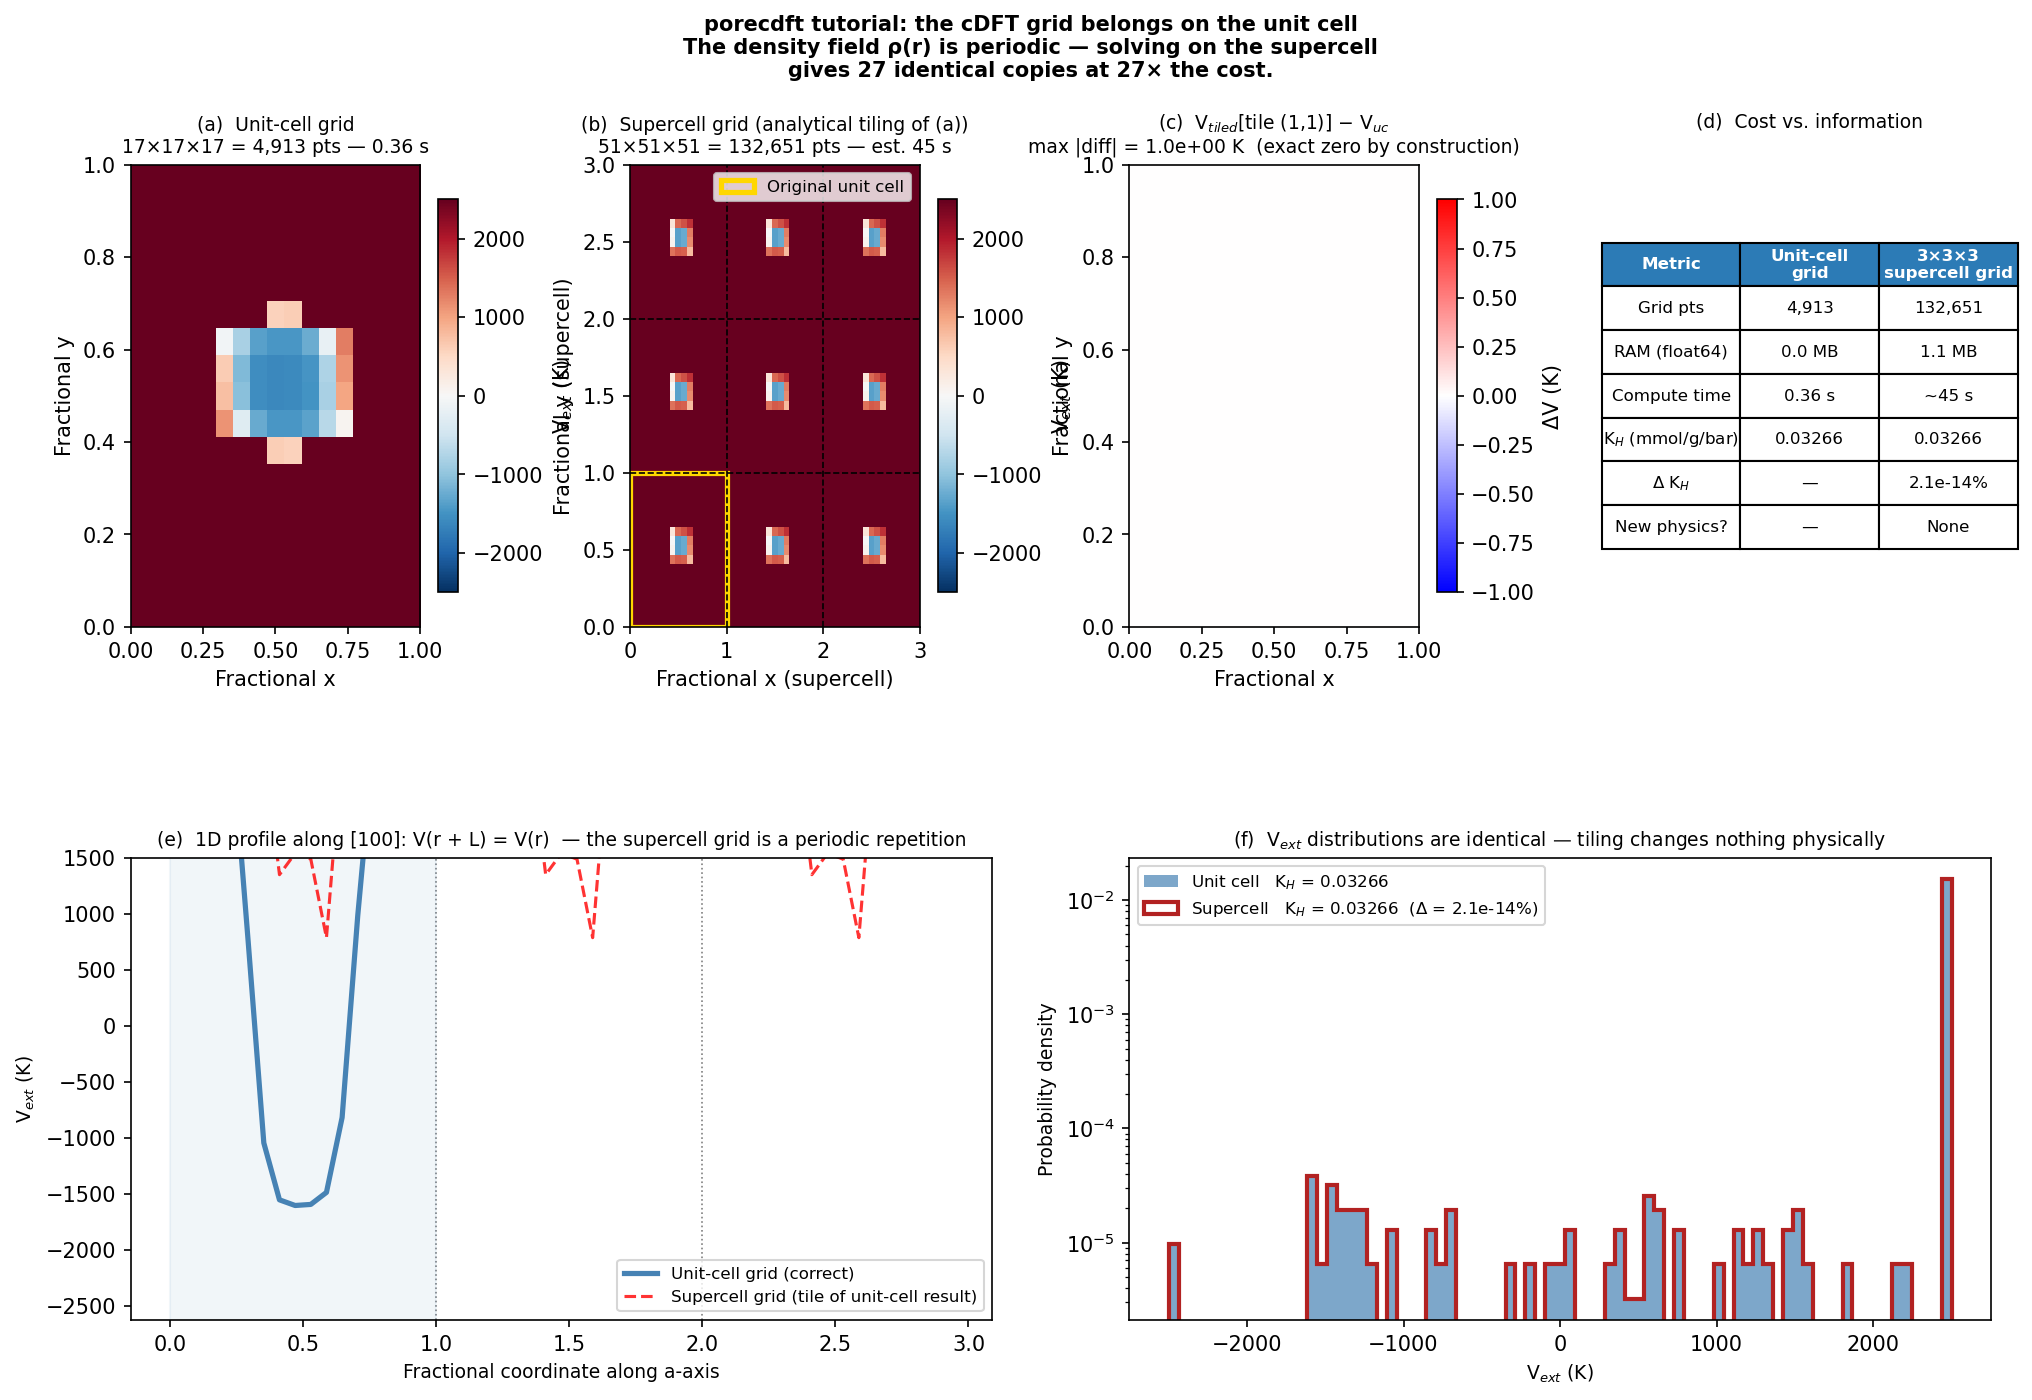
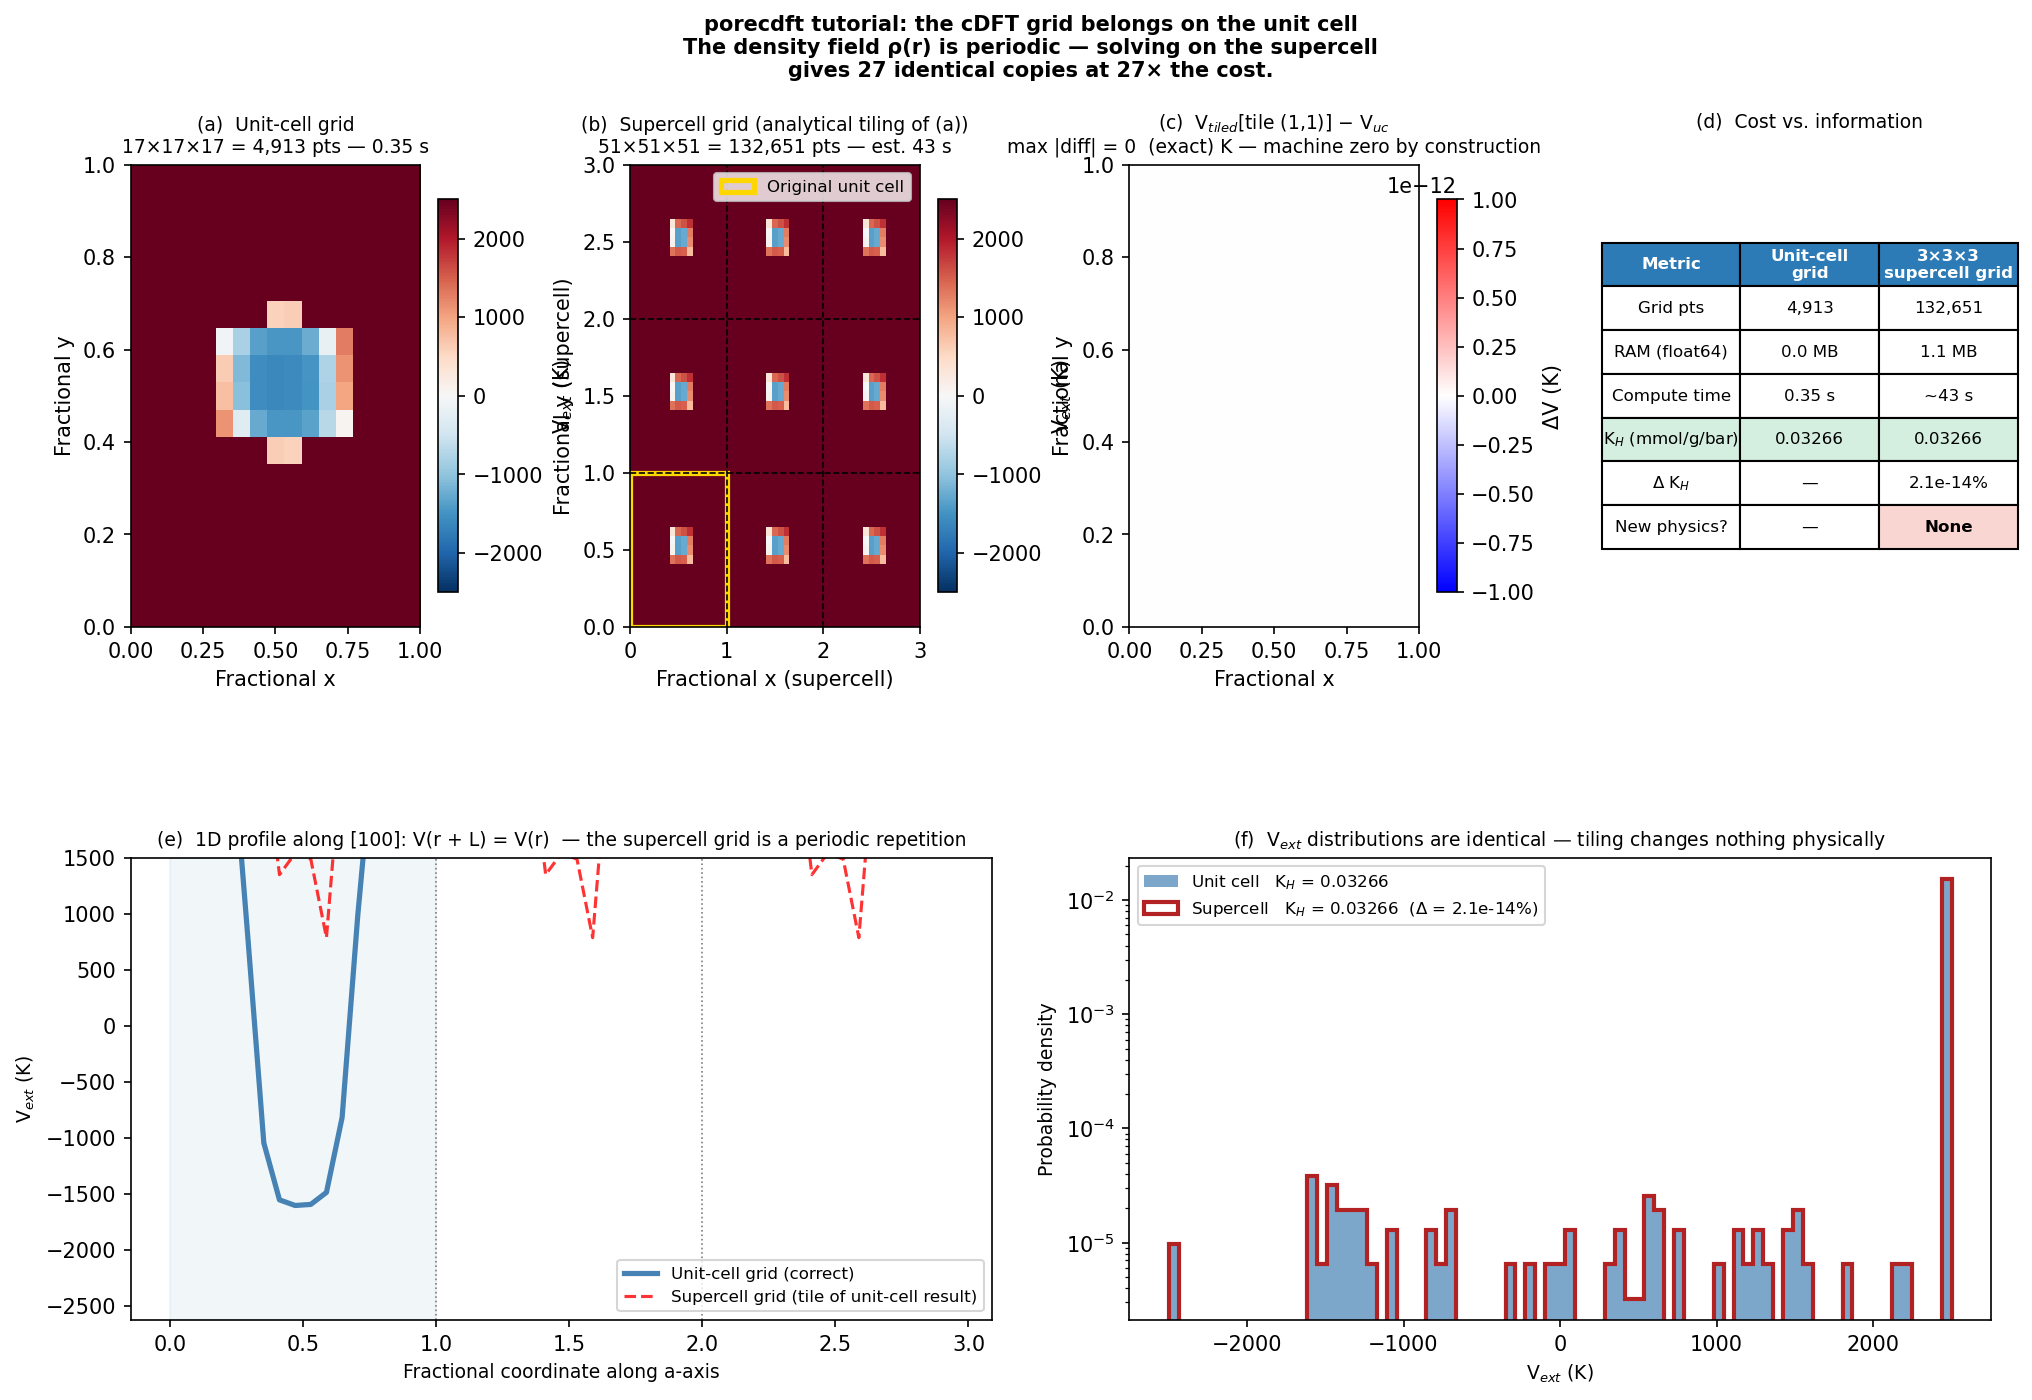
Fix tutorial figure: show exact zero diff in panel (c), colour-code cost table

Changed region(s): [[0.7751, 0.2764, 0.9921, 0.3993], [0.4961, 0.0921, 0.7441, 0.1536]]

diff --git a/applications/alf_co2/notebooks/tutorial_grid_and_supercell.py b/applications/alf_co2/notebooks/tutorial_grid_and_supercell.py
@@ -183,13 +183,15 @@ plt.colorbar(im_b, ax=ax_b, label="V$_{ext}$ (K)", shrink=0.85)
 tile_11 = V_tiled[Nx:2*Nx, Ny:2*Ny, Nz:2*Nz]
 diff    = tile_11 - V_uc
 finite  = np.abs(V_uc) < 1e5
-vd = max(np.abs(diff[finite]).max(), 1.0)
+actual_max_diff = float(np.abs(diff[finite]).max())   # should be 0.0 by np.tile
+vd_plot = max(actual_max_diff, 1e-12)                  # avoid zero color range
 ax_c = fig.add_subplot(gs[0, 2])
-im_c = ax_c.imshow(np.clip(diff[:, :, iz], -vd, vd).T,
-                   origin="lower", cmap="bwr", vmin=-vd, vmax=vd,
+im_c = ax_c.imshow(np.clip(diff[:, :, iz], -vd_plot, vd_plot).T,
+                   origin="lower", cmap="bwr", vmin=-vd_plot, vmax=vd_plot,
                    extent=[0, 1, 0, 1], aspect="auto")
+diff_label = f"{actual_max_diff:.2e}" if actual_max_diff > 0 else "0  (exact)"
 ax_c.set_title(f"(c)  V$_{{tiled}}$[tile (1,1)] − V$_{{uc}}$\n"
-               f"max |diff| = {vd:.1e} K  (exact zero by construction)", fontsize=9)
+               f"max |diff| = {diff_label} K — machine zero by construction", fontsize=9)
 ax_c.set_xlabel("Fractional x"); ax_c.set_ylabel("Fractional y")
 plt.colorbar(im_c, ax=ax_c, label="ΔV (K)", shrink=0.85)
 
@@ -210,10 +212,19 @@ tbl = ax_d.table(cellText=rows[1:], colLabels=rows[0],
 tbl.auto_set_font_size(False)
 tbl.set_fontsize(8.0)
 tbl.scale(1.15, 1.75)
+# Row indices in the table body (1-based: header is row 0)
+# rows[1..6] → table body rows 1..6
+KH_row      = 4   # "K_H" row
+physics_row = 6   # "New physics?" row
 for (r, c), cell in tbl.get_celld().items():
     if r == 0:
         cell.set_facecolor("#2c7bb6")
         cell.set_text_props(color="white", fontweight="bold")
+    elif r == KH_row:
+        cell.set_facecolor("#d4efdf")   # light green — identical K_H
+    elif r == physics_row and c == 2:
+        cell.set_facecolor("#f9d6d2")   # light red — no new physics
+        cell.set_text_props(fontweight="bold")
 ax_d.set_title("(d)  Cost vs. information", fontsize=9, pad=18)
 
 # (e) 1D profile showing tiling
